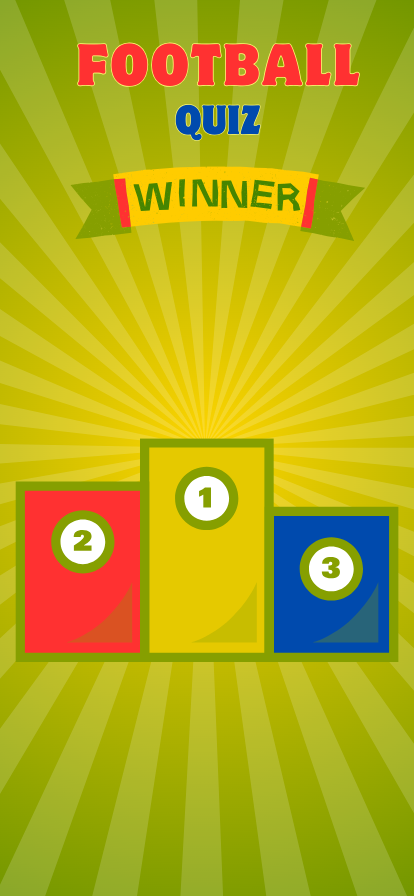
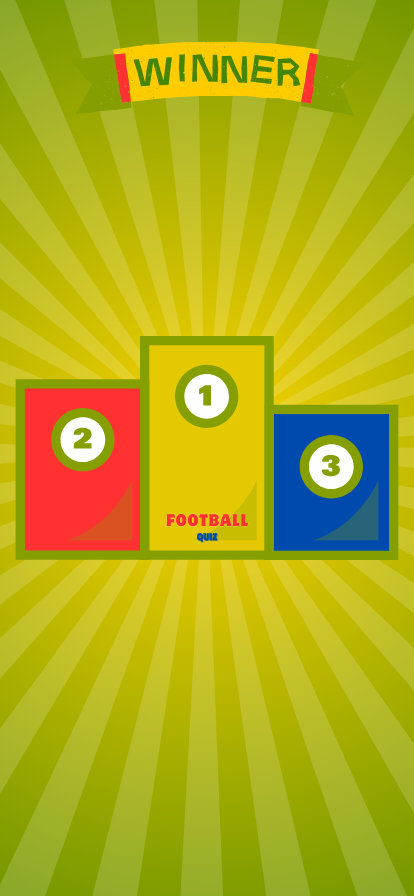
edit result ui

diff --git a/screens/ResultScreen.tsx b/screens/ResultScreen.tsx
@@ -1,4 +1,4 @@
-import {View, Text, Image} from 'react-native';
+import {View, Text, Image, Button, Alert} from 'react-native';
 import React from 'react';
 import WinnerBg from '../components/WinnerBg';
 import {useRoute} from '@react-navigation/native';
@@ -13,7 +13,7 @@ const ResultScreen = ({navigation}: any) => {
           flex: 1,
           display: 'flex',
           alignItems: 'center',
-          marginTop: 185,
+          marginTop: 110,
           position: 'relative',
           marginHorizontal: 10,
         }}>
@@ -115,7 +115,7 @@ const ResultScreen = ({navigation}: any) => {
         <View
           style={{
             position: 'absolute',
-            bottom: 50,
+            bottom: 140,
             backgroundColor: '#869f00',
             width: '100%',
             padding: 10,
@@ -155,7 +155,7 @@ const ResultScreen = ({navigation}: any) => {
                 fontSize: 12,
                 marginLeft: 'auto',
               }}>
-              {points}0
+              0{points}
             </Text>
           </View>
           <View
@@ -191,9 +191,30 @@ const ResultScreen = ({navigation}: any) => {
                 fontSize: 12,
                 marginLeft: 'auto',
               }}>
-              {points}0
+              0{points}
             </Text>
           </View>
+        </View>
+        <View
+          style={{
+            flex: 1,
+            width: '100%',
+            display: 'flex',
+            flexDirection: 'row',
+            gap: 10,
+            position: 'absolute',
+            bottom: 10,
+            justifyContent: 'center',
+          }}>
+          <Button
+            title="RETURN TO HOME"
+            onPress={() => navigation.navigate('Home')}
+            color="red"
+          />
+          <Button
+            title="PLAY AGAIN"
+            onPress={() => Alert.alert('belum diproses')}
+          />
         </View>
       </View>
     </WinnerBg>

diff --git a/App.tsx b/App.tsx
@@ -31,7 +31,7 @@ const App = () => {
         <GluestackUIProvider config={config}>
           <NavigationContainer>
             <Stack.Navigator>
-              {/* <Stack.Screen
+              <Stack.Screen
                 name="CheckingUser"
                 component={CheckingToken}
                 options={{headerShown: false}}
@@ -60,7 +60,7 @@ const App = () => {
                 name="Quiz"
                 component={QuizScreen}
                 options={{headerShown: false}}
-              /> */}
+              />
               <Stack.Screen
                 name="Result"
                 component={ResultScreen}
